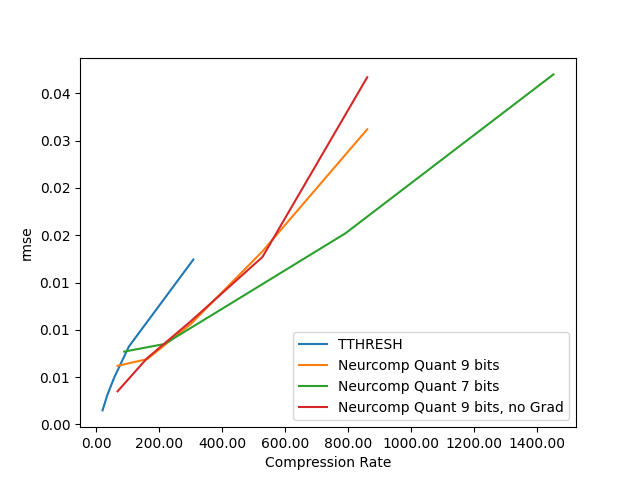
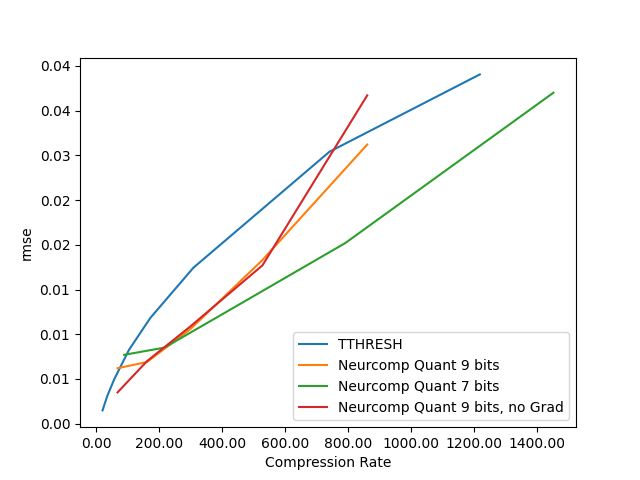
Add new plots for mhd_p tthresh

diff --git a/visualization/generatecomprPlot.py b/visualization/generatecomprPlot.py
@@ -139,11 +139,12 @@ def rmseTTHRESHExperiment():
     NeurcompQuantRMSEmhd_noGrad9 = [0.0035, 0.0070, 0.0109, 0.0177, 0.0367]
     NeurcompQuantCompRatemhd_noGrad9 = [68.412068076328, 162.14521452145215, 300.6132327746404, 528.6332552245229, 861.3701298701299]
 
-    tthreshPSNRmhd_p = [55.1833, 49.1794, 45.2835, 41.0376, 34.7223]
-    tthreshRMSEmhd_p = [0.0014869144161891758, 0.003114780095102444, 0.004981052701820832, 0.008235872355390245, 0.017433496413122113]
-    tthreshCompRatemhd_p = [20.7634, 35.9296, 58.0608, 104.395, 309.201]
+    # PSNR no Grad target
+    tthreshPSNRmhd_p = [55.1833, 49.1794, 45.2835, 41.0376, 38.5452, 34.7223, 30.342, 28.1689]
+    tthreshRMSEmhd_p = [0.0014869144161891758, 0.003114780095102444, 0.004981052701820832, 0.008235872355390245,  0.0118234, 0.017433496413122113, 0.0304019, 0.0390439]
+    tthreshCompRatemhd_p = [20.7634, 35.9296, 58.0608, 104.395, 172.495, 309.201, 741.548, 1218.99]
 
-    param = 'rmse'#'psnr', 'rmse'
+    param = 'psnr'#'psnr', 'rmse'
 
     mlClient = MlflowClient()
     expList = mlClient.search_experiments()
